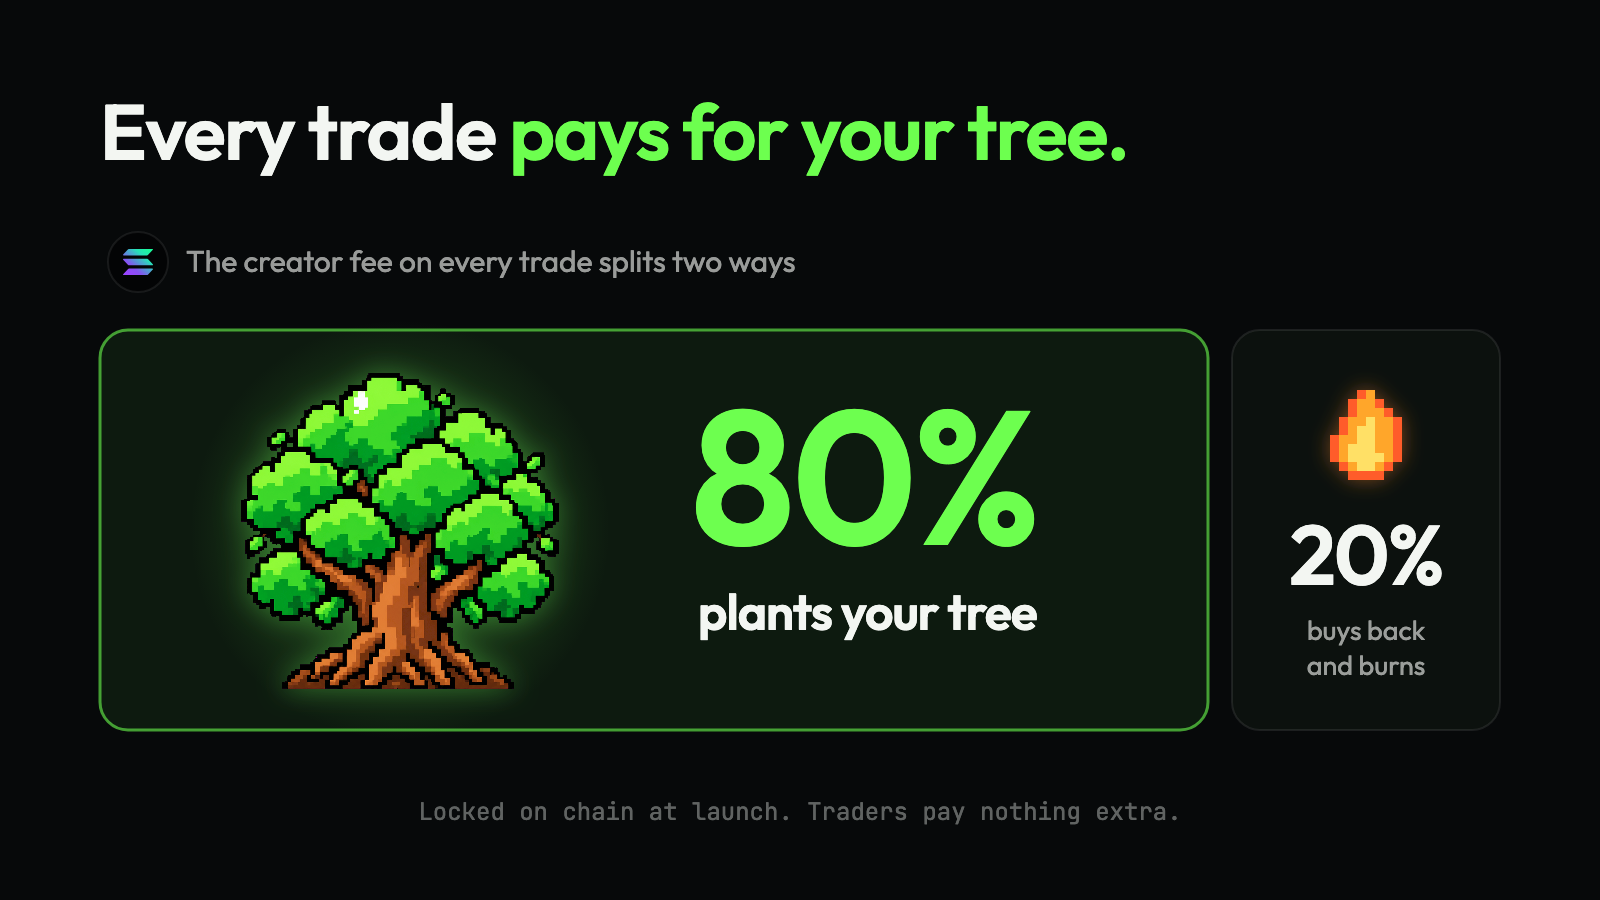
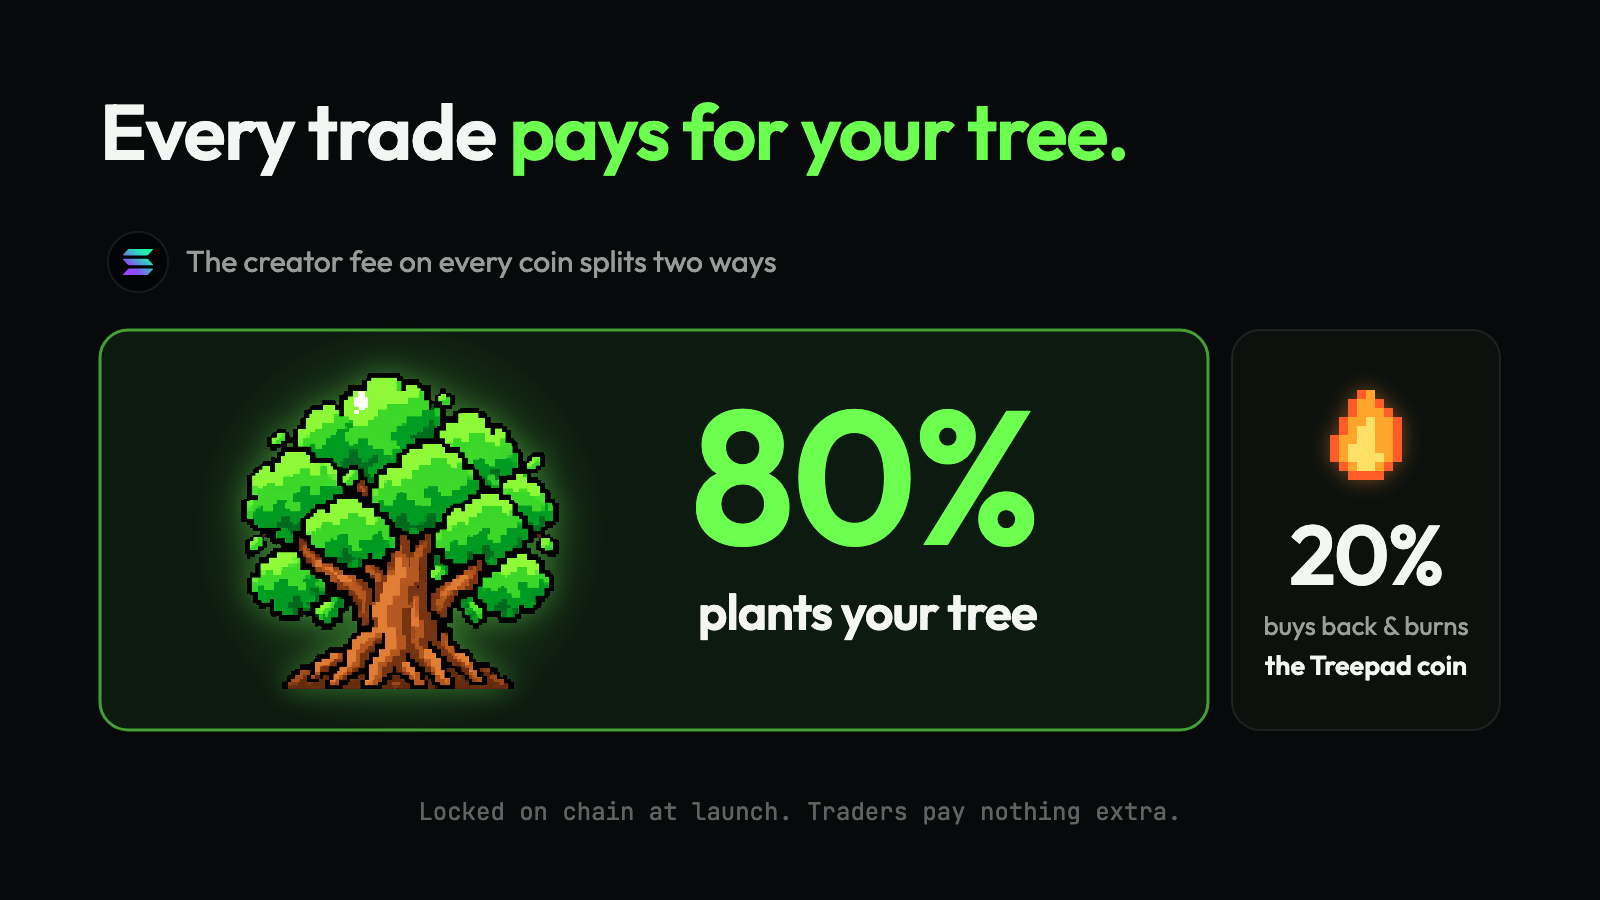
fix: say the Treepad article's 20% burns the Treepad coin
The buyback share from every coin goes to one Treepad wallet and burns our own coin, not the launcher's; 'buys back and burns' alone read like each coin burns itself.

Changed region(s): [[0.7812, 0.6844, 0.9375, 0.7778], [0.3125, 0.28, 0.5, 0.3111]]

diff --git a/kits/treepad/art/03-split.html b/kits/treepad/art/03-split.html
@@ -21,4 +21,4 @@ image{image-rendering:pixelated}
 <filter id="land-glow" x="-10%" y="-10%" width="120%" height="120%"><feGaussianBlur stdDeviation="1.4"/></filter>
 <pattern id="map-grid" width="1" height="1" patternUnits="userSpaceOnUse"><path d="M1 0H0V1" fill="none" stroke="#9fc4ff" stroke-opacity="0.1" stroke-width="0.08"/></pattern>
 <linearGradient id="fade-l" x1="0" y1="0" x2="1" y2="0"><stop offset="0" stop-color="#07090a" stop-opacity="1"/><stop offset="0.42" stop-color="#07090a" stop-opacity="0.92"/><stop offset="0.62" stop-color="#07090a" stop-opacity="0.15"/><stop offset="1" stop-color="#07090a" stop-opacity="0"/></linearGradient>
-</defs><rect width="1600" height="900" fill="#07090a"/><defs><filter id="pin-glow" x="-30%" y="-30%" width="160%" height="160%"><feDropShadow dx="0" dy="0" stdDeviation="4" flood-color="#6eff5a" flood-opacity="0.3"/></filter><filter id="fire-glow" x="-40%" y="-40%" width="180%" height="180%"><feDropShadow dx="0" dy="0" stdDeviation="10" flood-color="#ff8a2a" flood-opacity="0.45"/></filter></defs><text x="100" y="160" class="disp" font-size="78" text-anchor="start">Every trade <tspan class="neon">pays for your tree.</tspan></text><circle cx="138" cy="262" r="30" fill="#000" fill-opacity="0.5" stroke="rgb(255 255 255 / 0.08)" stroke-width="2"/><g transform="translate(123.0 248.93069306930693) scale(0.297029702970297)"><path d="M100.48 69.38L83.81 86.8a4 4 0 0 1-2.83 1.2H1.94a1.94 1.94 0 0 1-1.42-3.17L17.2 67.4a4 4 0 0 1 2.83-1.2h79.03a1.94 1.94 0 0 1 1.42 3.18ZM83.81 34.3a4 4 0 0 0-2.83-1.2H1.94A1.94 1.94 0 0 0 .52 36.28L17.2 53.7a4 4 0 0 0 2.83 1.2h79.03a1.94 1.94 0 0 0 1.42-3.17ZM1.94 21.79h79.04a4 4 0 0 0 2.83-1.2L100.48 3.17A1.94 1.94 0 0 0 99.06 0H20.03a4 4 0 0 0-2.82 1.2L.52 18.62a1.94 1.94 0 0 0 1.42 3.17Z" fill="url(#sol)"/></g><text x="186" y="272" class="txt" font-size="30">The creator fee on every trade splits two ways</text><rect x="100" y="330" width="1108.0" height="400" rx="28" fill="#0d1a0f" stroke="#6dff4f" stroke-opacity="0.6" stroke-width="3"/><circle cx="400" cy="530" r="210" fill="url(#glow)"/><image href="tree-4-giant.png" x="240.0" y="370" width="320" height="320" filter="url(#tree-glow)"/><text x="690" y="545" class="disp neon" font-size="190">80%</text><text x="698" y="630" class="disp" font-size="50">plants your tree</text><rect x="1232.0" y="330" width="268.0" height="400" rx="28" class="panel"/><g shape-rendering="crispEdges" filter="url(#fire-glow)"><rect x="1357.0" y="390" width="9" height="9" fill="#ff5c2a"/><rect x="1366.0" y="390" width="9" height="9" fill="#ffa62b"/><rect x="1348.0" y="399" width="9" height="9" fill="#ff5c2a"/><rect x="1357.0" y="399" width="9" height="9" fill="#ffa62b"/><rect x="1366.0" y="399" width="9" height="9" fill="#ffa62b"/><rect x="1375.0" y="399" width="9" height="9" fill="#ff5c2a"/><rect x="1348.0" y="408" width="9" height="9" fill="#ff5c2a"/><rect x="1357.0" y="408" width="9" height="9" fill="#ffa62b"/><rect x="1366.0" y="408" width="9" height="9" fill="#ffa62b"/><rect x="1375.0" y="408" width="9" height="9" fill="#ffa62b"/><rect x="1384.0" y="408" width="9" height="9" fill="#ff5c2a"/><rect x="1339.0" y="417" width="9" height="9" fill="#ff5c2a"/><rect x="1348.0" y="417" width="9" height="9" fill="#ffa62b"/><rect x="1357.0" y="417" width="9" height="9" fill="#ffa62b"/><rect x="1366.0" y="417" width="9" height="9" fill="#ffe066"/><rect x="1375.0" y="417" width="9" height="9" fill="#ffa62b"/><rect x="1384.0" y="417" width="9" height="9" fill="#ffa62b"/><rect x="1393.0" y="417" width="9" height="9" fill="#ff5c2a"/><rect x="1339.0" y="426" width="9" height="9" fill="#ff5c2a"/><rect x="1348.0" y="426" width="9" height="9" fill="#ffa62b"/><rect x="1357.0" y="426" width="9" height="9" fill="#ffe066"/><rect x="1366.0" y="426" width="9" height="9" fill="#ffe066"/><rect x="1375.0" y="426" width="9" height="9" fill="#ffa62b"/><rect x="1384.0" y="426" width="9" height="9" fill="#ffa62b"/><rect x="1393.0" y="426" width="9" height="9" fill="#ff5c2a"/><rect x="1330.0" y="435" width="9" height="9" fill="#ff5c2a"/><rect x="1339.0" y="435" width="9" height="9" fill="#ffa62b"/><rect x="1348.0" y="435" width="9" height="9" fill="#ffa62b"/><rect x="1357.0" y="435" width="9" height="9" fill="#ffe066"/><rect x="1366.0" y="435" width="9" height="9" fill="#ffe066"/><rect x="1375.0" y="435" width="9" height="9" fill="#ffa62b"/><rect x="1384.0" y="435" width="9" height="9" fill="#ffa62b"/><rect x="1393.0" y="435" width="9" height="9" fill="#ff5c2a"/><rect x="1330.0" y="444" width="9" height="9" fill="#ff5c2a"/><rect x="1339.0" y="444" width="9" height="9" fill="#ffa62b"/><rect x="1348.0" y="444" width="9" height="9" fill="#ffe066"/><rect x="1357.0" y="444" width="9" height="9" fill="#ffe066"/><rect x="1366.0" y="444" width="9" height="9" fill="#ffe066"/><rect x="1375.0" y="444" width="9" height="9" fill="#ffa62b"/><rect x="1384.0" y="444" width="9" height="9" fill="#ffa62b"/><rect x="1393.0" y="444" width="9" height="9" fill="#ff5c2a"/><rect x="1330.0" y="453" width="9" height="9" fill="#ff5c2a"/><rect x="1339.0" y="453" width="9" height="9" fill="#ffa62b"/><rect x="1348.0" y="453" width="9" height="9" fill="#ffe066"/><rect x="1357.0" y="453" width="9" height="9" fill="#ffe066"/><rect x="1366.0" y="453" width="9" height="9" fill="#ffe066"/><rect x="1375.0" y="453" width="9" height="9" fill="#ffe066"/><rect x="1384.0" y="453" width="9" height="9" fill="#ffa62b"/><rect x="1393.0" y="453" width="9" height="9" fill="#ff5c2a"/><rect x="1339.0" y="462" width="9" height="9" fill="#ff5c2a"/><rect x="1348.0" y="462" width="9" height="9" fill="#ffa62b"/><rect x="1357.0" y="462" width="9" height="9" fill="#ffe066"/><rect x="1366.0" y="462" width="9" height="9" fill="#ffe066"/><rect x="1375.0" y="462" width="9" height="9" fill="#ffa62b"/><rect x="1384.0" y="462" width="9" height="9" fill="#ff5c2a"/><rect x="1348.0" y="471" width="9" height="9" fill="#ff5c2a"/><rect x="1357.0" y="471" width="9" height="9" fill="#ff5c2a"/><rect x="1366.0" y="471" width="9" height="9" fill="#ff5c2a"/><rect x="1375.0" y="471" width="9" height="9" fill="#ff5c2a"/></g><text x="1366.0" y="585" class="disp" font-size="84" text-anchor="middle">20%</text><text x="1366.0" y="640" class="txt" font-size="27" text-anchor="middle">buys back</text><text x="1366.0" y="675" class="txt" font-size="27" text-anchor="middle">and burns</text><text x="800" y="820" class="dim" font-size="24" text-anchor="middle">Locked on chain at launch. Traders pay nothing extra.</text></svg></body></html>
+</defs><rect width="1600" height="900" fill="#07090a"/><defs><filter id="pin-glow" x="-30%" y="-30%" width="160%" height="160%"><feDropShadow dx="0" dy="0" stdDeviation="4" flood-color="#6eff5a" flood-opacity="0.3"/></filter><filter id="fire-glow" x="-40%" y="-40%" width="180%" height="180%"><feDropShadow dx="0" dy="0" stdDeviation="10" flood-color="#ff8a2a" flood-opacity="0.45"/></filter></defs><text x="100" y="160" class="disp" font-size="78" text-anchor="start">Every trade <tspan class="neon">pays for your tree.</tspan></text><circle cx="138" cy="262" r="30" fill="#000" fill-opacity="0.5" stroke="rgb(255 255 255 / 0.08)" stroke-width="2"/><g transform="translate(123.0 248.93069306930693) scale(0.297029702970297)"><path d="M100.48 69.38L83.81 86.8a4 4 0 0 1-2.83 1.2H1.94a1.94 1.94 0 0 1-1.42-3.17L17.2 67.4a4 4 0 0 1 2.83-1.2h79.03a1.94 1.94 0 0 1 1.42 3.18ZM83.81 34.3a4 4 0 0 0-2.83-1.2H1.94A1.94 1.94 0 0 0 .52 36.28L17.2 53.7a4 4 0 0 0 2.83 1.2h79.03a1.94 1.94 0 0 0 1.42-3.17ZM1.94 21.79h79.04a4 4 0 0 0 2.83-1.2L100.48 3.17A1.94 1.94 0 0 0 99.06 0H20.03a4 4 0 0 0-2.82 1.2L.52 18.62a1.94 1.94 0 0 0 1.42 3.17Z" fill="url(#sol)"/></g><text x="186" y="272" class="txt" font-size="30">The creator fee on every coin splits two ways</text><rect x="100" y="330" width="1108.0" height="400" rx="28" fill="#0d1a0f" stroke="#6dff4f" stroke-opacity="0.6" stroke-width="3"/><circle cx="400" cy="530" r="210" fill="url(#glow)"/><image href="tree-4-giant.png" x="240.0" y="370" width="320" height="320" filter="url(#tree-glow)"/><text x="690" y="545" class="disp neon" font-size="190">80%</text><text x="698" y="630" class="disp" font-size="50">plants your tree</text><rect x="1232.0" y="330" width="268.0" height="400" rx="28" class="panel"/><g shape-rendering="crispEdges" filter="url(#fire-glow)"><rect x="1357.0" y="390" width="9" height="9" fill="#ff5c2a"/><rect x="1366.0" y="390" width="9" height="9" fill="#ffa62b"/><rect x="1348.0" y="399" width="9" height="9" fill="#ff5c2a"/><rect x="1357.0" y="399" width="9" height="9" fill="#ffa62b"/><rect x="1366.0" y="399" width="9" height="9" fill="#ffa62b"/><rect x="1375.0" y="399" width="9" height="9" fill="#ff5c2a"/><rect x="1348.0" y="408" width="9" height="9" fill="#ff5c2a"/><rect x="1357.0" y="408" width="9" height="9" fill="#ffa62b"/><rect x="1366.0" y="408" width="9" height="9" fill="#ffa62b"/><rect x="1375.0" y="408" width="9" height="9" fill="#ffa62b"/><rect x="1384.0" y="408" width="9" height="9" fill="#ff5c2a"/><rect x="1339.0" y="417" width="9" height="9" fill="#ff5c2a"/><rect x="1348.0" y="417" width="9" height="9" fill="#ffa62b"/><rect x="1357.0" y="417" width="9" height="9" fill="#ffa62b"/><rect x="1366.0" y="417" width="9" height="9" fill="#ffe066"/><rect x="1375.0" y="417" width="9" height="9" fill="#ffa62b"/><rect x="1384.0" y="417" width="9" height="9" fill="#ffa62b"/><rect x="1393.0" y="417" width="9" height="9" fill="#ff5c2a"/><rect x="1339.0" y="426" width="9" height="9" fill="#ff5c2a"/><rect x="1348.0" y="426" width="9" height="9" fill="#ffa62b"/><rect x="1357.0" y="426" width="9" height="9" fill="#ffe066"/><rect x="1366.0" y="426" width="9" height="9" fill="#ffe066"/><rect x="1375.0" y="426" width="9" height="9" fill="#ffa62b"/><rect x="1384.0" y="426" width="9" height="9" fill="#ffa62b"/><rect x="1393.0" y="426" width="9" height="9" fill="#ff5c2a"/><rect x="1330.0" y="435" width="9" height="9" fill="#ff5c2a"/><rect x="1339.0" y="435" width="9" height="9" fill="#ffa62b"/><rect x="1348.0" y="435" width="9" height="9" fill="#ffa62b"/><rect x="1357.0" y="435" width="9" height="9" fill="#ffe066"/><rect x="1366.0" y="435" width="9" height="9" fill="#ffe066"/><rect x="1375.0" y="435" width="9" height="9" fill="#ffa62b"/><rect x="1384.0" y="435" width="9" height="9" fill="#ffa62b"/><rect x="1393.0" y="435" width="9" height="9" fill="#ff5c2a"/><rect x="1330.0" y="444" width="9" height="9" fill="#ff5c2a"/><rect x="1339.0" y="444" width="9" height="9" fill="#ffa62b"/><rect x="1348.0" y="444" width="9" height="9" fill="#ffe066"/><rect x="1357.0" y="444" width="9" height="9" fill="#ffe066"/><rect x="1366.0" y="444" width="9" height="9" fill="#ffe066"/><rect x="1375.0" y="444" width="9" height="9" fill="#ffa62b"/><rect x="1384.0" y="444" width="9" height="9" fill="#ffa62b"/><rect x="1393.0" y="444" width="9" height="9" fill="#ff5c2a"/><rect x="1330.0" y="453" width="9" height="9" fill="#ff5c2a"/><rect x="1339.0" y="453" width="9" height="9" fill="#ffa62b"/><rect x="1348.0" y="453" width="9" height="9" fill="#ffe066"/><rect x="1357.0" y="453" width="9" height="9" fill="#ffe066"/><rect x="1366.0" y="453" width="9" height="9" fill="#ffe066"/><rect x="1375.0" y="453" width="9" height="9" fill="#ffe066"/><rect x="1384.0" y="453" width="9" height="9" fill="#ffa62b"/><rect x="1393.0" y="453" width="9" height="9" fill="#ff5c2a"/><rect x="1339.0" y="462" width="9" height="9" fill="#ff5c2a"/><rect x="1348.0" y="462" width="9" height="9" fill="#ffa62b"/><rect x="1357.0" y="462" width="9" height="9" fill="#ffe066"/><rect x="1366.0" y="462" width="9" height="9" fill="#ffe066"/><rect x="1375.0" y="462" width="9" height="9" fill="#ffa62b"/><rect x="1384.0" y="462" width="9" height="9" fill="#ff5c2a"/><rect x="1348.0" y="471" width="9" height="9" fill="#ff5c2a"/><rect x="1357.0" y="471" width="9" height="9" fill="#ff5c2a"/><rect x="1366.0" y="471" width="9" height="9" fill="#ff5c2a"/><rect x="1375.0" y="471" width="9" height="9" fill="#ff5c2a"/></g><text x="1366.0" y="585" class="disp" font-size="84" text-anchor="middle">20%</text><text x="1366.0" y="635" class="txt" font-size="26" text-anchor="middle">buys back &amp; burns</text><text x="1366.0" y="675" font-family="Outfit" font-weight="600" font-size="27" fill="#f3f6f2" text-anchor="middle">the Treepad coin</text><text x="800" y="820" class="dim" font-size="24" text-anchor="middle">Locked on chain at launch. Traders pay nothing extra.</text></svg></body></html>

diff --git a/docs/treepad/index.html b/docs/treepad/index.html
@@ -44,7 +44,7 @@ button.ok{background:#f5b301;color:#111}
 <p>Launch a coin on <b>Treepad</b>, pick a real tree, and <b>every trade pays to plant it.</b></p>
 <h2>Pick your tree</h2></div></div></div><div class="step"><div class="num">4</div><div class="card"><div class="head"><span class="tag">Image</span><span class="sp"></span><a class="btn ghost" download="02-pick.png" href="02-pick.png">Download</a><button onclick="copyImage(this)">Copy image</button></div><img src="02-pick.png" alt=""></div></div><div class="step"><div class="num">5</div><div class="card"><div class="head"><span class="tag">Text</span><span class="sp"></span><button onclick="copyText(this)">Copy</button></div><div class="body"><p>Name your coin, add a ticker and an image, then pick a tree. <b>580 trees in 22 countries</b>, from mangroves in Kenya to mahogany in Nicaragua.</p>
 <p>Sign with your wallet and it goes live on pump.fun.</p>
-<h2>Where the fees go</h2></div></div></div><div class="step"><div class="num">6</div><div class="card"><div class="head"><span class="tag">Image</span><span class="sp"></span><a class="btn ghost" download="03-split.png" href="03-split.png">Download</a><button onclick="copyImage(this)">Copy image</button></div><img src="03-split.png" alt=""></div></div><div class="step"><div class="num">7</div><div class="card"><div class="head"><span class="tag">Text</span><span class="sp"></span><button onclick="copyText(this)">Copy</button></div><div class="body"><p><b>80% of the creator fees plant your tree. 20% buys back and burns.</b></p>
+<h2>Where the fees go</h2></div></div></div><div class="step"><div class="num">6</div><div class="card"><div class="head"><span class="tag">Image</span><span class="sp"></span><a class="btn ghost" download="03-split.png" href="03-split.png">Download</a><button onclick="copyImage(this)">Copy image</button></div><img src="03-split.png" alt=""></div></div><div class="step"><div class="num">7</div><div class="card"><div class="head"><span class="tag">Text</span><span class="sp"></span><button onclick="copyText(this)">Copy</button></div><div class="body"><p><b>80% of the creator fees plant your tree. 20% buys back and burns the Treepad coin.</b></p>
 <p>The split is locked on chain at launch. Traders pay nothing extra: it all comes out of pump.fun’s normal creator fee.</p>
 <h2>Your coin grows a tree</h2></div></div></div><div class="step"><div class="num">8</div><div class="card"><div class="head"><span class="tag">Image</span><span class="sp"></span><a class="btn ghost" download="04-grow.png" href="04-grow.png">Download</a><button onclick="copyImage(this)">Copy image</button></div><img src="04-grow.png" alt=""></div></div><div class="step"><div class="num">9</div><div class="card"><div class="head"><span class="tag">Text</span><span class="sp"></span><button onclick="copyText(this)">Copy</button></div><div class="body"><p>Every coin gets its own pixel tree, and <b>it grows with the market cap.</b> A seed at launch, a sapling at $50k, a giant at $1M.</p>
 <p>Tree-Nation puts the real ones in the ground. <b>Every tree gets a public certificate</b>, and every fee claim is a Solana transaction.</p></div></div></div><div class="step"><div class="num">10</div><div class="card"><div class="head"><span class="tag">Image</span><span class="sp"></span><a class="btn ghost" download="05-close.png" href="05-close.png">Download</a><button onclick="copyImage(this)">Copy image</button></div><img src="05-close.png" alt=""></div></div><div class="step"><div class="num">11</div><div class="card"><div class="head"><span class="tag">Text</span><span class="sp"></span><button onclick="copyText(this)">Copy</button></div><div class="body"><h2>Your coin. Your tree.</h2>

diff --git a/kits/treepad/art/gen.py b/kits/treepad/art/gen.py
@@ -203,7 +203,7 @@ page('02-pick.html', 1600, 900, b)
 b = [EXTRA_DEFS, headline(100, 160, 'Every trade ', 'pays for your tree.')]
 b.append(f'<circle cx="138" cy="262" r="30" fill="#000" fill-opacity="0.5" stroke="rgb(255 255 255 / 0.08)" stroke-width="2"/>')
 b.append(solana(138, 262, 30))
-b.append('<text x="186" y="272" class="txt" font-size="30">The creator fee on every trade splits two ways</text>')
+b.append('<text x="186" y="272" class="txt" font-size="30">The creator fee on every coin splits two ways</text>')
 bx, by, bw, bh = 100, 330, 1400, 400
 tw = bw * 0.8 - 12
 b.append(f'<rect x="{bx}" y="{by}" width="{tw}" height="{bh}" rx="28" fill="#0d1a0f" stroke="#6dff4f" stroke-opacity="0.6" stroke-width="3"/>')
@@ -216,8 +216,8 @@ fw = bw - tw - 24
 b.append(f'<rect x="{fx}" y="{by}" width="{fw}" height="{bh}" rx="28" class="panel"/>')
 b.append(flame(fx + fw / 2, by + 150, 9))
 b.append(f'<text x="{fx + fw / 2}" y="{by + 255}" class="disp" font-size="84" text-anchor="middle">20%</text>')
-b.append(f'<text x="{fx + fw / 2}" y="{by + 310}" class="txt" font-size="27" text-anchor="middle">buys back</text>')
-b.append(f'<text x="{fx + fw / 2}" y="{by + 345}" class="txt" font-size="27" text-anchor="middle">and burns</text>')
+b.append(f'<text x="{fx + fw / 2}" y="{by + 305}" class="txt" font-size="26" text-anchor="middle">buys back &amp; burns</text>')
+b.append(f'<text x="{fx + fw / 2}" y="{by + 345}" font-family="Outfit" font-weight="600" font-size="27" fill="#f3f6f2" text-anchor="middle">the Treepad coin</text>')
 b.append('<text x="800" y="820" class="dim" font-size="24" text-anchor="middle">Locked on chain at launch. Traders pay nothing extra.</text>')
 page('03-split.html', 1600, 900, b)
 
